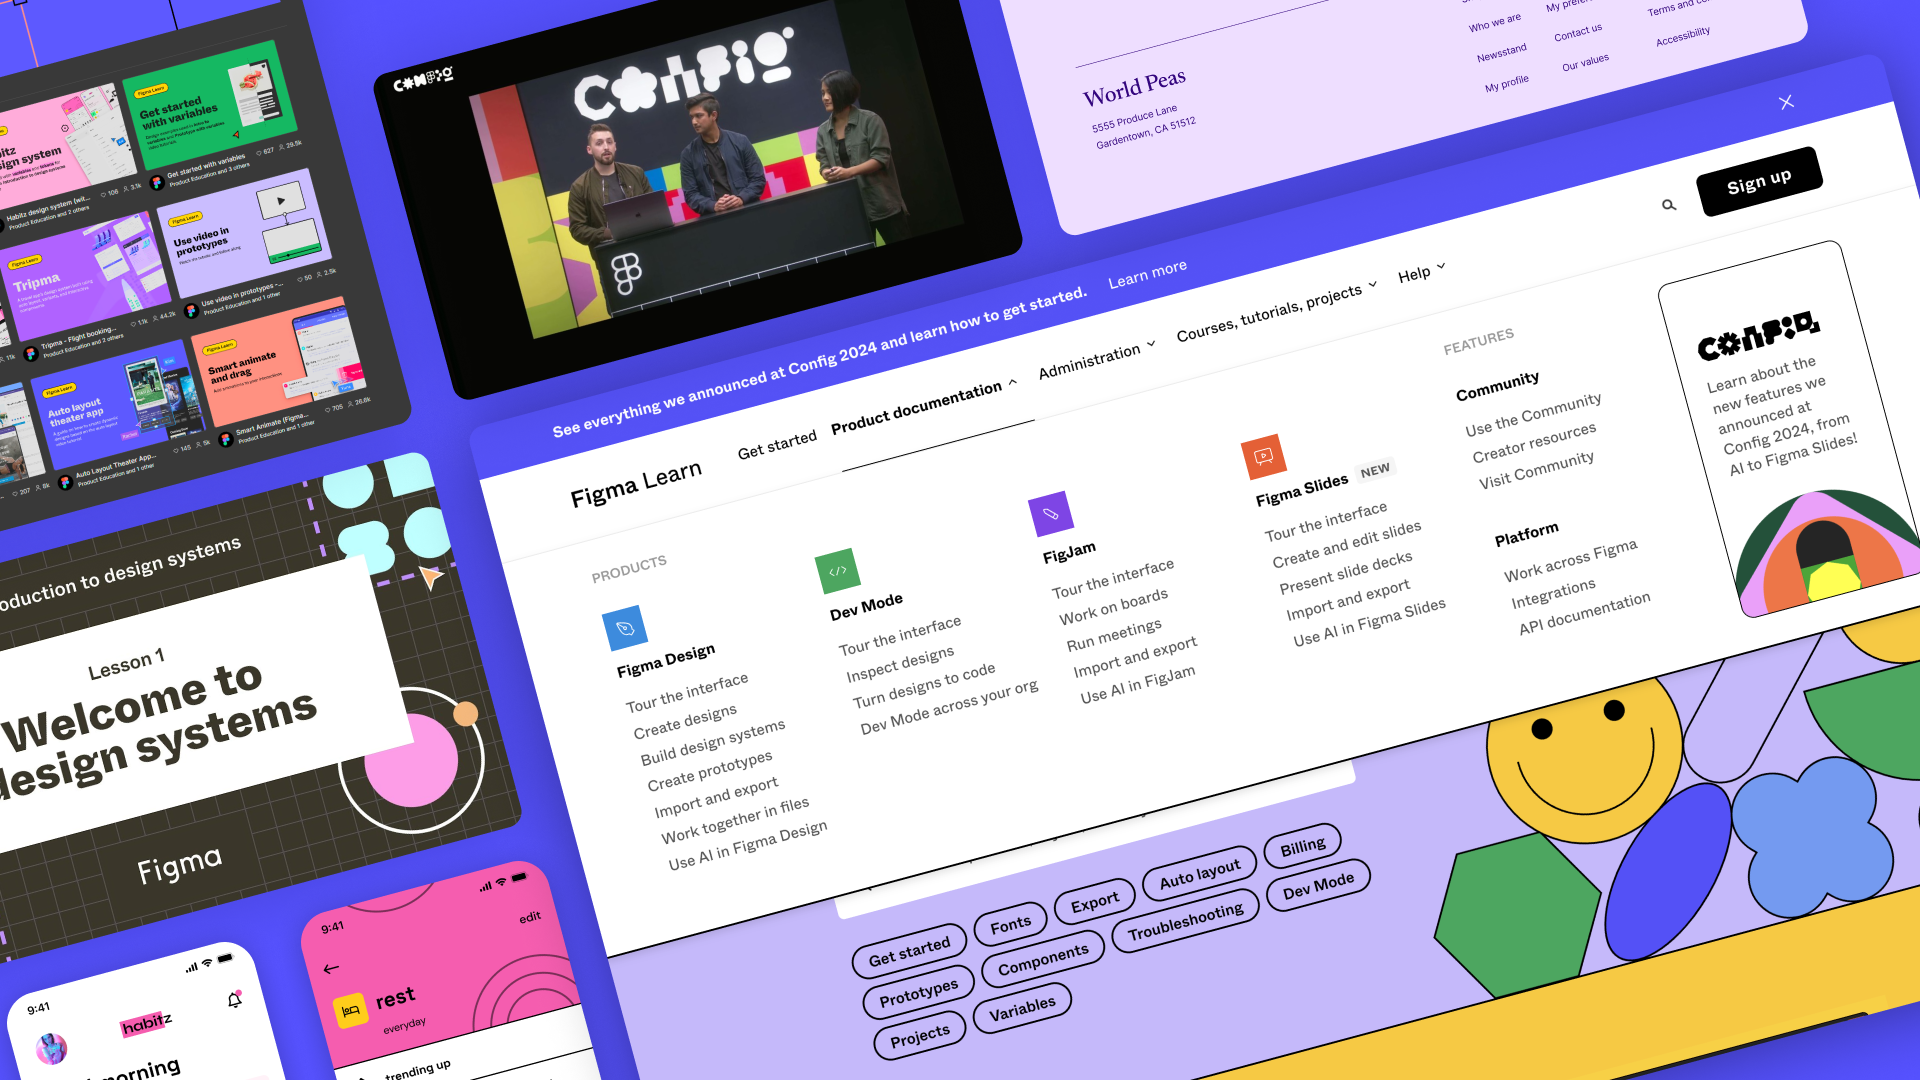
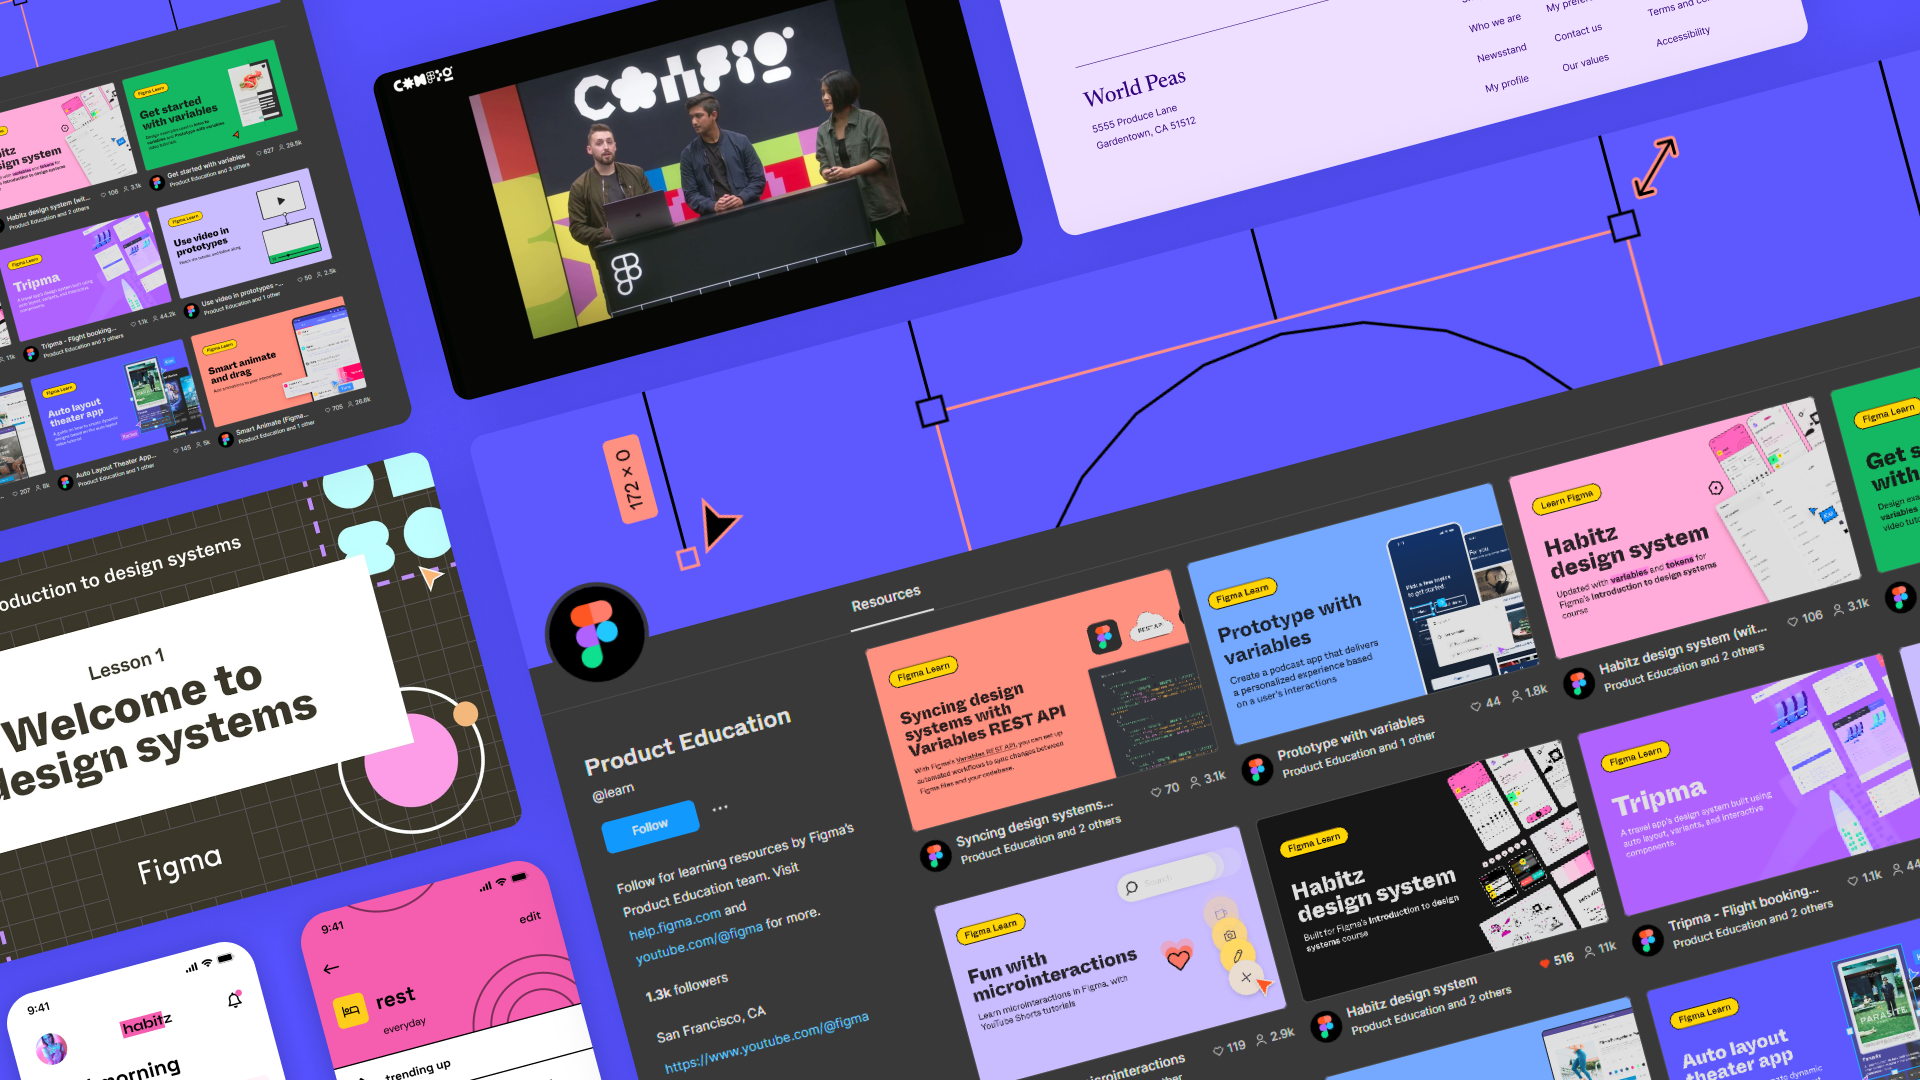
Update Figma Learn assets and content
Added new background and thumbnail images for Figma Learn, updated references in the MDX file, and improved project descriptions. Enhanced the case study content rendering in the page template for better list item spacing.

diff --git a/src/app/work/[slug]/page.tsx b/src/app/work/[slug]/page.tsx
@@ -77,7 +77,9 @@ export default async function Template({ params }: TemplateProps) {
 
                 <MHeading03 className="mt-14 mb-1 animate-fade-in-up">Case Study</MHeading03>
 
-                <div className="prose prose-lg text-white max-w-none animate-fade-in-up prose-a:text-zinc-300 prose-p:text-zinc-300 prose-ul:text-zinc-300">{data.content}</div>
+                <div className="prose prose-lg text-white max-w-none animate-fade-in-up prose-li:mt-1 prose-li:mb-1 prose-a:text-zinc-300 prose-p:text-zinc-300 prose-ul:text-zinc-300">
+                    {data.content}
+                </div>
             </div>
         </>
     );
